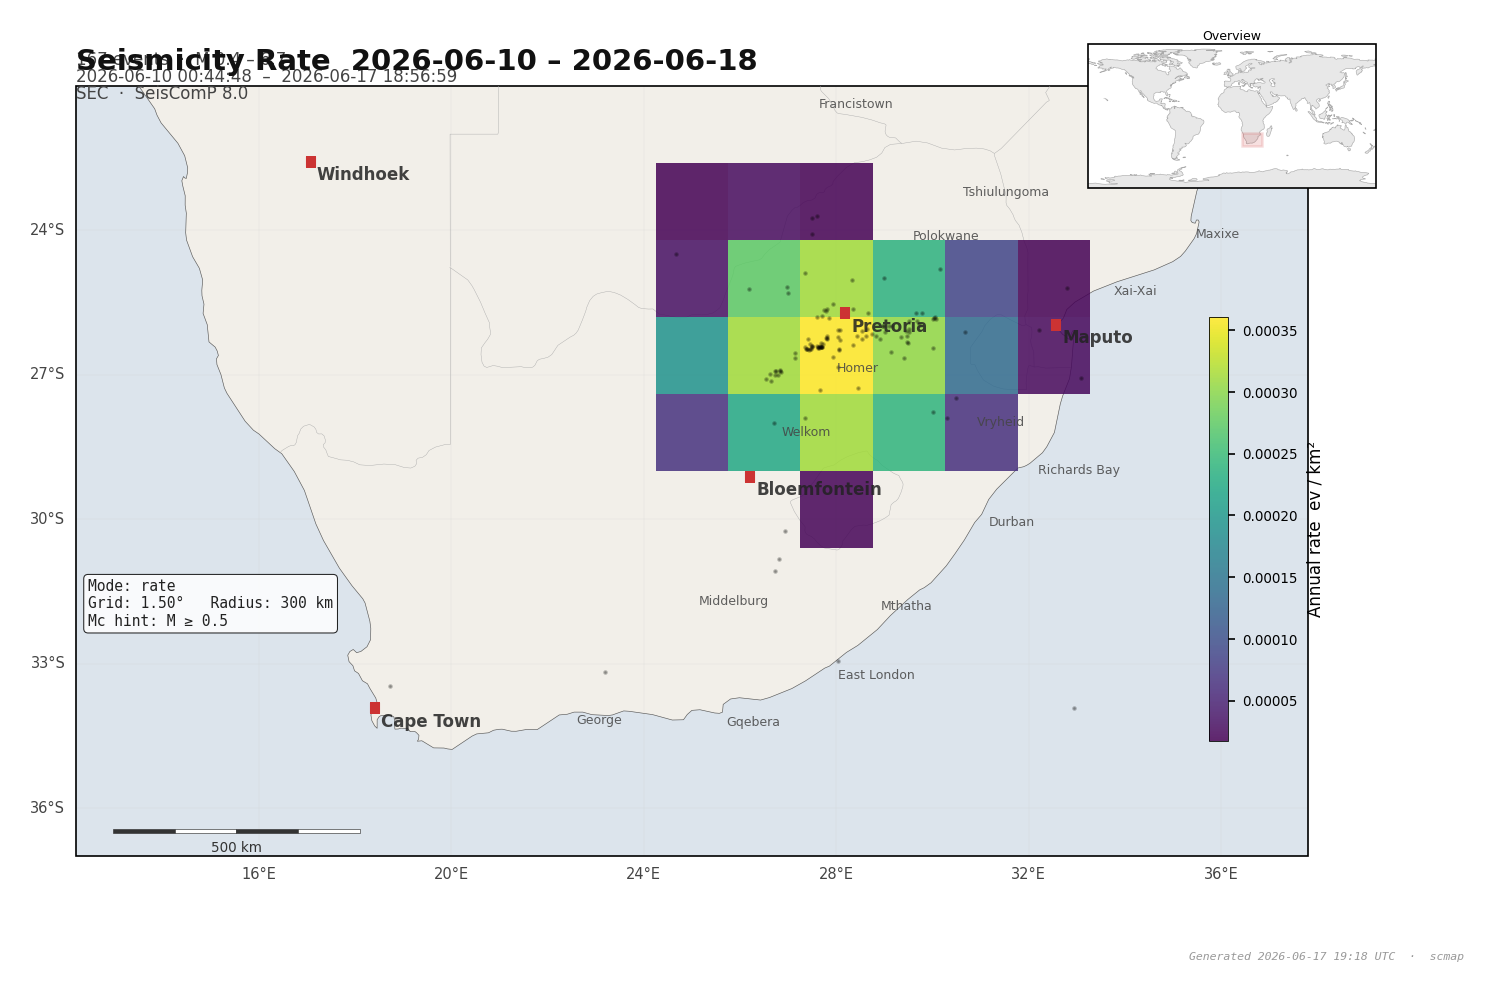
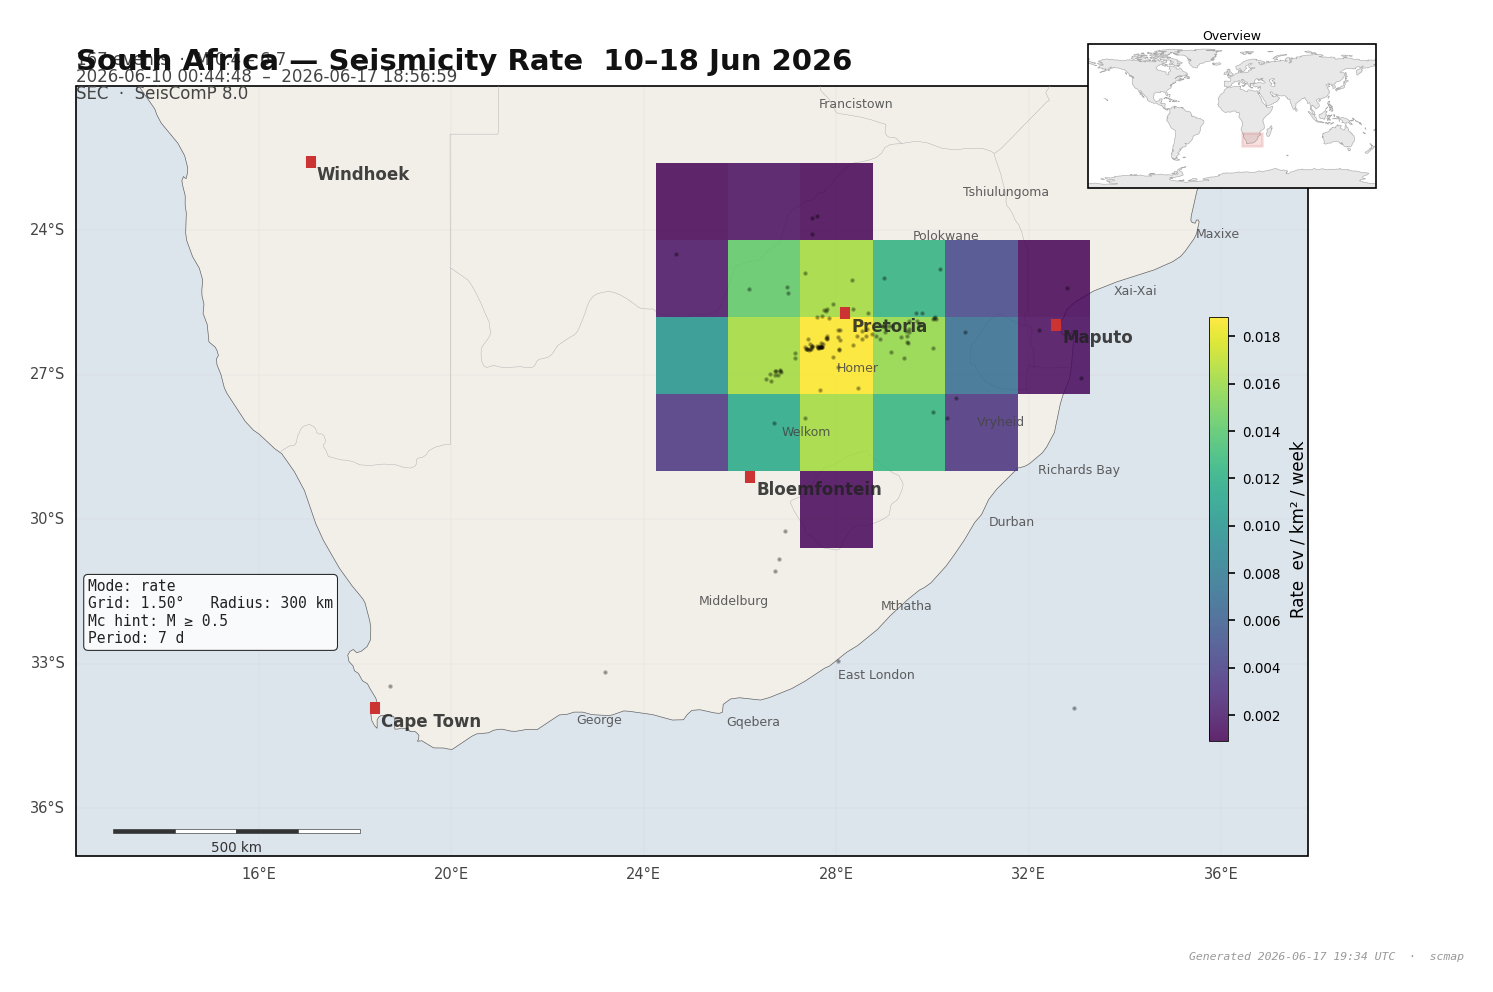
Add --rate-period flag: control rate normalisation (daily, weekly, annual)

diff --git a/scmap.py b/scmap.py
@@ -719,23 +719,33 @@ class SeismoAnalysis:
 
     # ── Seismicity rate ─────────────────────────────────────────────────
 
-    def rate_map(self, mc_hint=1.5):
-        """Annual seismicity rate per km² above *mc_hint* on a grid."""
+    def rate_map(self, mc_hint=1.5, period_days=0):
+        """Seismicity rate per km² above *mc_hint* on a grid.
+
+        If *period_days* > 0 the rate is normalised to that many days
+        (e.g. 7 = events/km²/week).  Zero means auto‑detect from the
+        catalogue time span (→ annual rate).
+        """
         seiscomp.logging.debug("      computing rate (M ≥ %.1f) ..." % mc_hint)
         lons, lats = self._grid_coords()
         nlons, nlats = len(lons), len(lats)
         values = np.full((nlats, nlons), np.nan)
-        mc = 1.5
 
-        # Estimate time span from event origin times
-        etimes = [e.origin_time for e in self.events
-                  if e.origin_time is not None]
-        if len(etimes) < 2:
-            years = 1.0
+        # Normalisation period
+        if period_days > 0:
+            norm_days = period_days
+            seiscomp.logging.debug("      → normalising to %d days" % norm_days)
         else:
-            tspan = seiscomp.core.TimeSpan(max(etimes) - min(etimes))
-            years = max(1.0, tspan.seconds() / 31557600.0)
-        seiscomp.logging.debug("      → catalogue span: %.2f yr" % years)
+            etimes = [e.origin_time for e in self.events
+                      if e.origin_time is not None]
+            if len(etimes) < 2:
+                norm_days = 365.25
+            else:
+                tspan = seiscomp.core.TimeSpan(max(etimes) - min(etimes))
+                norm_days = max(1.0, tspan.seconds() / 86400.0)
+            seiscomp.logging.debug("      → catalogue span: %.1f days" % norm_days)
+
+        years = norm_days / 365.25
 
         area_km2 = math.pi * self.radius_km ** 2
 
@@ -1005,9 +1015,21 @@ class MapBuilder:
             vmin, vmax = 0.5, 3.0
             fmt = '%0.1f'
         elif mode == 'rate':
-            lons, lats, vals = analysis.rate_map(mc_hint=mc_hint)
+            period_days = config.get('rate_period', 0)
+            lons, lats, vals = analysis.rate_map(mc_hint=mc_hint,
+                                                 period_days=period_days)
             cmap = plt.cm.viridis
-            label = 'Annual rate  ev / km²'
+            if period_days > 0:
+                if period_days == 1:
+                    label = 'Rate  ev / km² / day'
+                elif period_days == 7:
+                    label = 'Rate  ev / km² / week'
+                elif period_days <= 31:
+                    label = 'Rate  ev / km² / %d d' % period_days
+                else:
+                    label = 'Rate  ev / km² / %d d' % period_days
+            else:
+                label = 'Annual rate  ev / km²'
             vmin, vmax = None, None  # auto-scale
             fmt = '%0.2e'
         else:
@@ -1063,6 +1085,8 @@ class MapBuilder:
             'Grid: %.2f°   Radius: %d km' % (grid_size, radius_km),
             'Mc hint: M\u2009\u2265\u2009%.1f' % mc_hint,
         ]
+        if mode == 'rate' and period_days > 0:
+            self._analysis_params.append('Period: %d d' % period_days)
 
     def _draw_stations(self, ax, proj):
         all_stations = {}
@@ -1642,6 +1666,11 @@ class ScmapApp(seiscomp.client.Application):
                 "Magnitude completeness threshold for b‑value and rate "
                 "analysis (default: 1.5)."
             )
+            self.commandline().addStringOption(
+                "Display", "rate-period",
+                "Rate normalisation period in days (default: 0 = auto). "
+                "Set to 7 for weekly rate, 1 for daily, etc."
+            )
             self.commandline().addOption(
                 "Display", "no-legend",
                 "Disable event type legend."
@@ -1887,6 +1916,7 @@ Examples:
             'grid_size': self._opt_float("grid-size", 0.5) or 0.5,
             'grid_radius': self._opt_float("grid-radius", 50) or 50,
             'mc_hint': self._opt_float("mc-hint", 1.5) or 1.5,
+            'rate_period': int(self._opt_float("rate-period", 0) or 0),
         }
 
         region = self._opt_str("region")

diff --git a/README.md b/README.md
@@ -131,6 +131,7 @@ LAT=50 LON=8 MARGIN=6 DB="sysop:sysop@10.202.50.1:18002/seiscomp" ./scmap-all.sh
 #   GRID_SIZE="${GRID_SIZE:-1.5}"
 #   GRID_RADIUS="${GRID_RADIUS:-300}"
 #   MC_HINT="${MC_HINT:-0.5}"
+#   RATE_PERIOD="${RATE_PERIOD:-0}"
 #   CITY_POP="${CITY_POP:-50000}"
 ```
 
@@ -165,8 +166,8 @@ detected).  Cells with fewer than 15 events are blank.
 ![Mc map](map_mc.png)
 
 #### Seismicity rate
-Annual event rate (events / km² / year) for M ≥ 0.5.  Bright = high
-activity, dark = low activity.  Cells with fewer than 5 events are blank.
+Weekly event rate (events / km² / week) for M ≥ 0.5, normalised to 7 days.
+Bright = high activity, dark = low.  Cells with fewer than 5 events are blank.
 
 ![Rate map](map_rate.png)
 
@@ -200,6 +201,7 @@ requires a minimum count before computing a value.
 | `--grid-size` | 0.5 | Grid cell spacing in degrees |
 | `--grid-radius` | 50 | Sample radius in kilometres |
 | `--mc-hint` | 1.5 | Lower magnitude cutoff for b‑value and rate |
+| `--rate-period` | 0 | Rate normalisation in days (0 = auto annual).  Set to 7 for weekly, 1 for daily |
 
 ### Map layout
 